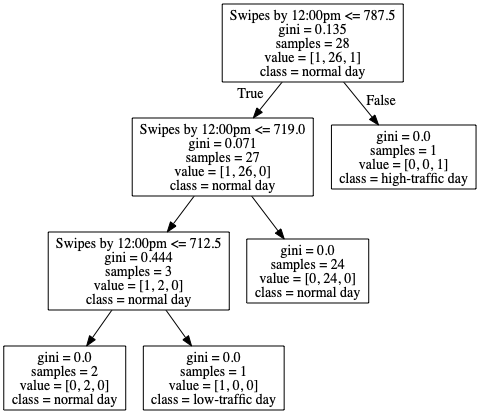
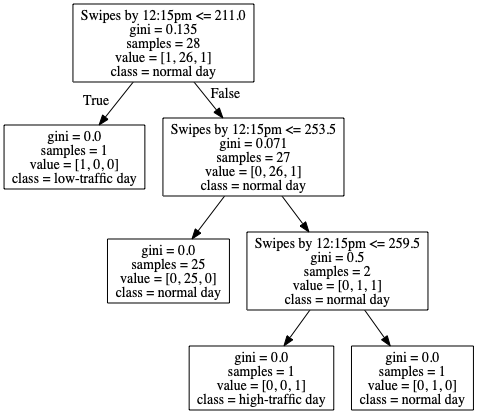
fixed bugs

diff --git a/hw2_data 2/yaledining.py b/hw2_data 2/yaledining.py
@@ -38,8 +38,6 @@ def get_mean_traffic(bldg_id):
     high_traffic_threshold = mean_traffic * 1.05
     return (low_traffic_threshold, high_traffic_threshold)
 
-
-
 def assign_training_labels_samples(bldg_id, low_traffic_threshold, high_traffic_threshold):
     samples = [[0, 0, 0, 0] for x in range(TOTAL_DAYS)] 
     # samples[x][0] = day of the week (0-6, Sunday to Saturday)
@@ -70,17 +68,17 @@ def assign_training_labels_samples(bldg_id, low_traffic_threshold, high_traffic_
 
                 if time_of_day <= TIME1:
                     samples[day][1] += 1 # swipes by 11:45 (incl 11:45)
-                if (time_of_day > TIME1 & time_of_day <= TIME2):
-                    samples[day][2] += 1 # swipes by 12:05 (incl 12:00)
-                if (time_of_day > TIME2 & time_of_day <= TIME3):
+                if time_of_day <= TIME2:
+                    samples[day][2] += 1 # swipes by 12:00 (incl 12:00)
+                if time_of_day <= TIME3:
                     samples[day][3] += 1 # swipes by 12:15 (incl 12:15)
 
-        # assigning labels for the sample data
-        for z in range(TOTAL_DAYS):
-            if total_swipes[z] < low_traffic_threshold:
-                labels[z] = -1
-            if total_swipes[z] > high_traffic_threshold:
-                labels[z] = 1
+    # assigning labels for the sample data
+    for z in range(TOTAL_DAYS):
+        if total_swipes[z] < low_traffic_threshold:
+            labels[z] = -1
+        if total_swipes[z] > high_traffic_threshold:
+            labels[z] = 1
         
     return (samples, labels)
 
@@ -132,10 +130,8 @@ def main():
     if prediction_SM == 1:
         prediction_SM_text = "a high-traffic day"
 
-
     print ("The prediction for Branford with 78 swipes by 11:45am, 131 swipes by 12:00pm, and 232 swipes by 12:15pm on a Monday is: ", prediction_BR_text)
     print ("The prediction for Silliman with 90 swipes by 11:45am, 171 swipes by 12:00pm, and 230 swipes by 12:15pm on a Sunday is: ", prediction_SM_text)
-
 
 if __name__ == "__main__":
     main()
